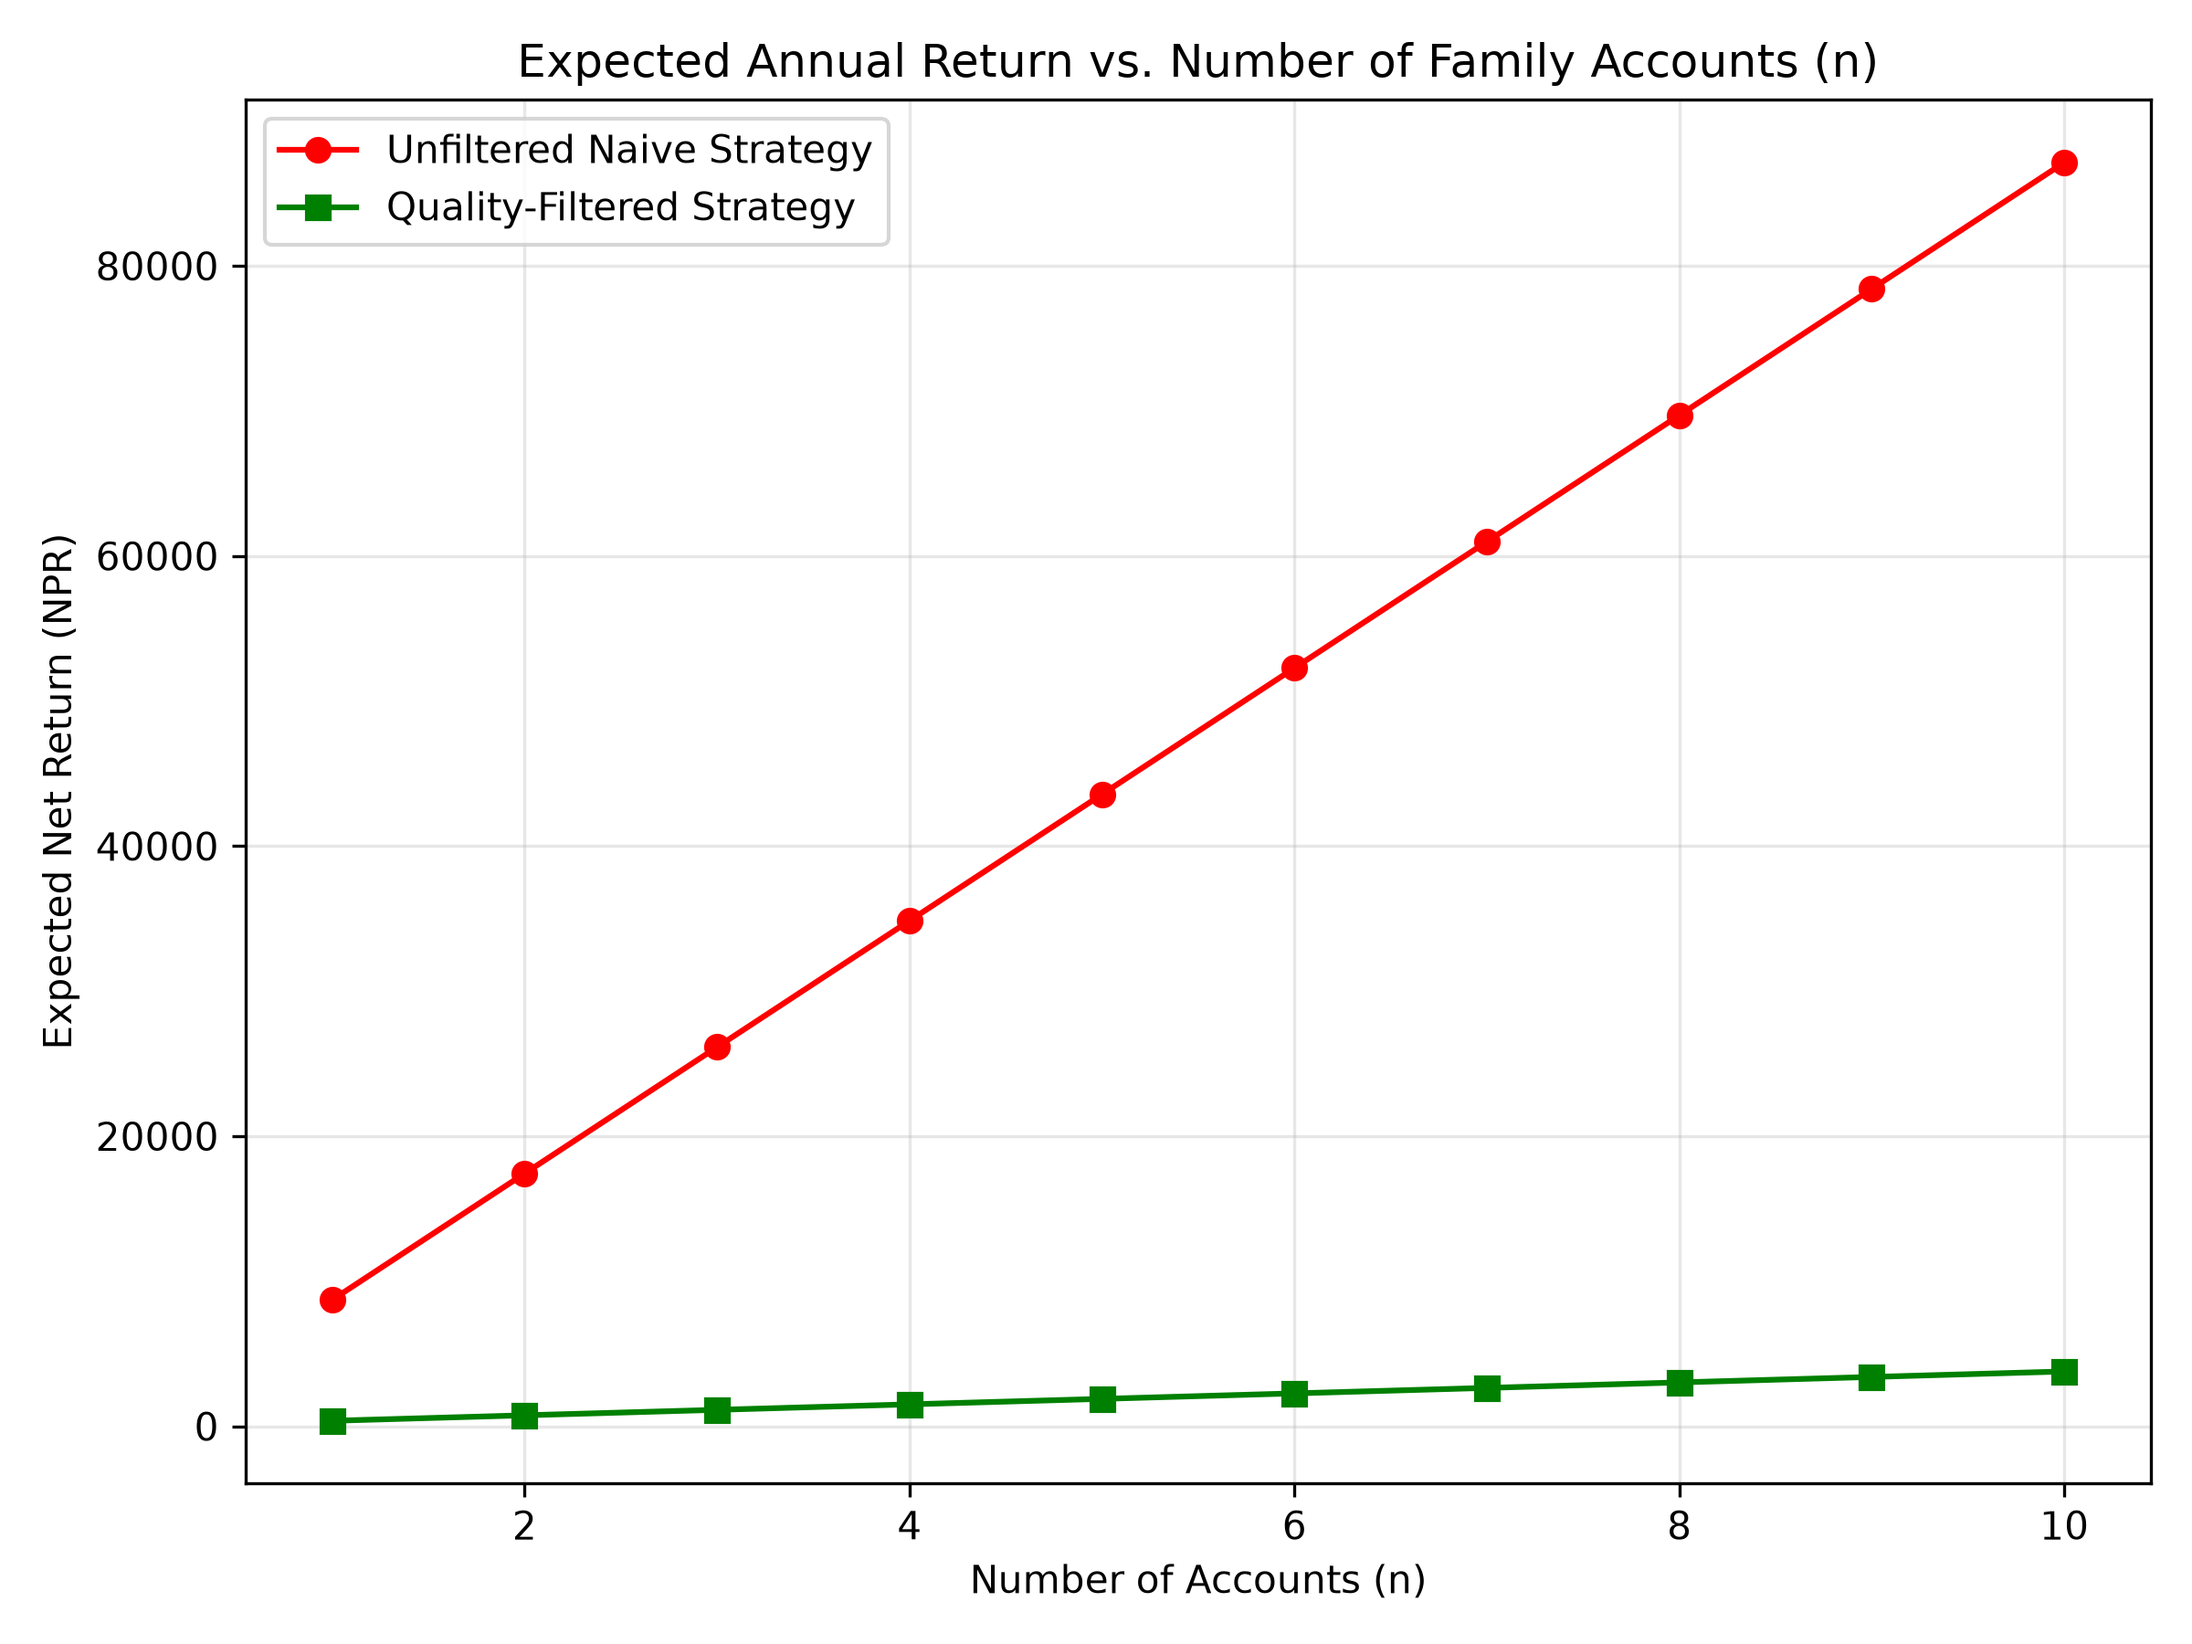
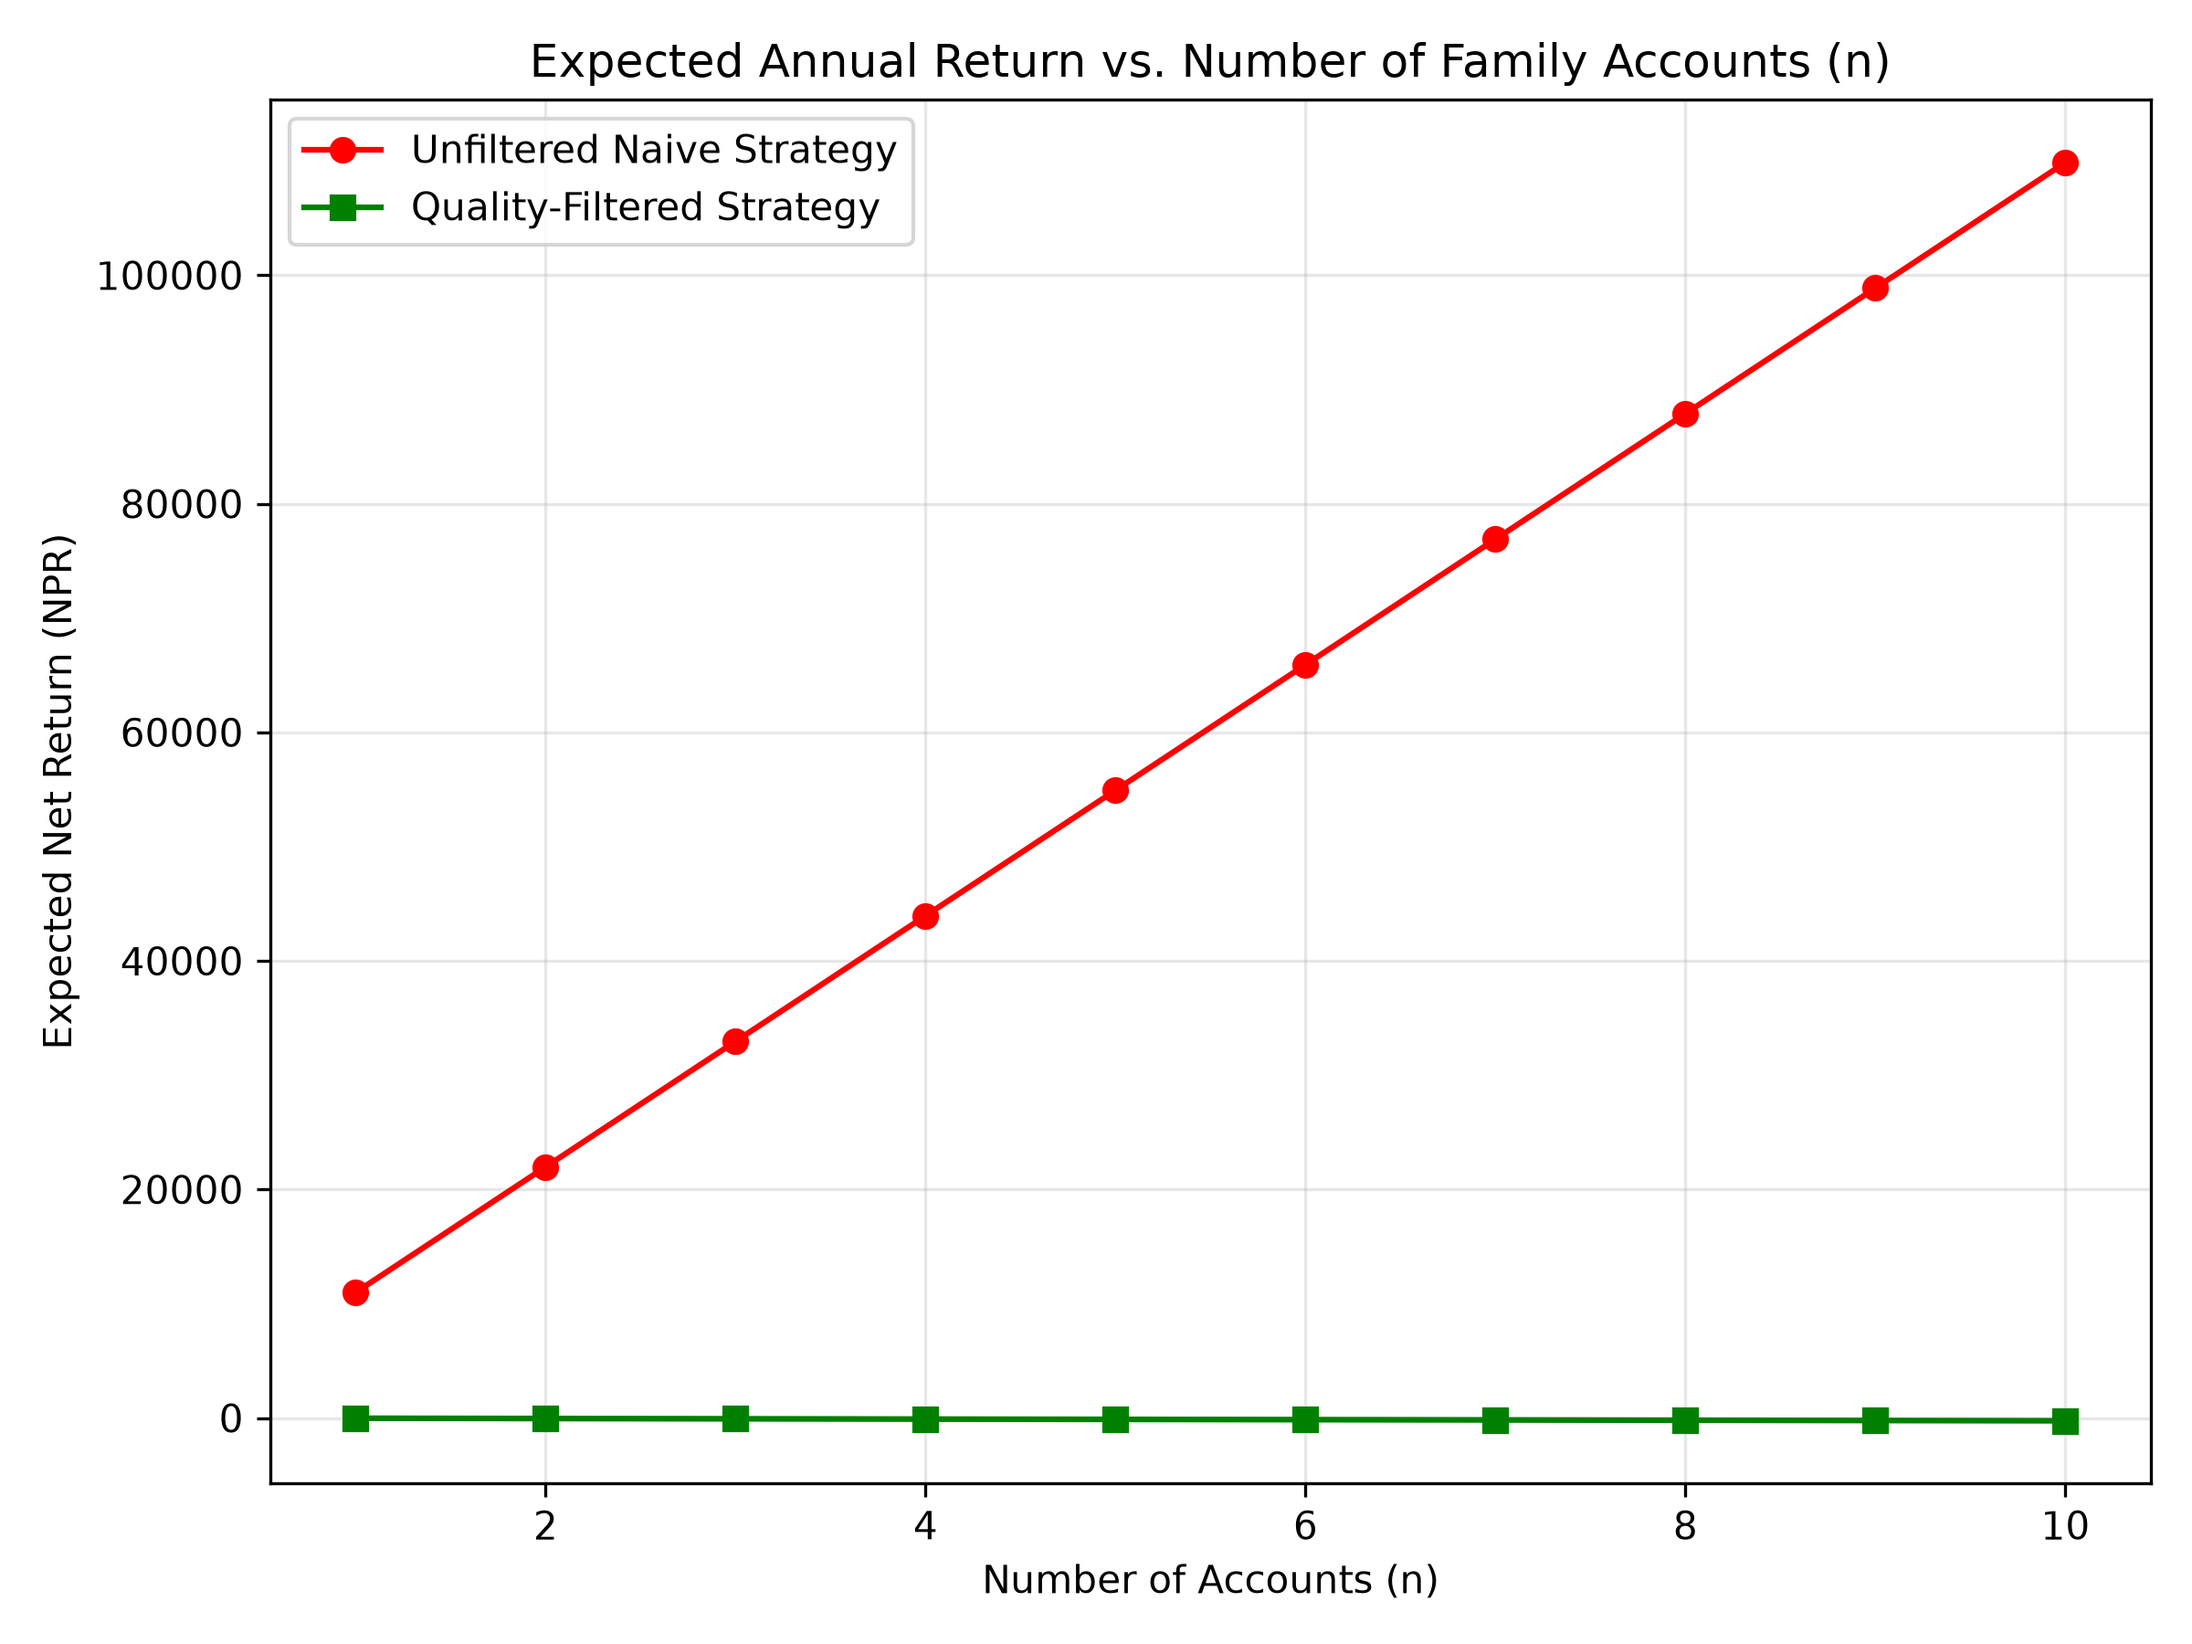
Data updated manually

diff --git a/verify_helper.py b/verify_helper.py
@@ -16,7 +16,7 @@ def generate_verification_links(symbol, company_name):
     
     # 2. Application Counts & Allotment Data (Google Search restricted to ShareSansar)
     query = urllib.parse.quote_plus(f"{company_name} IPO allotment sharesansar")
-    google_url = f"https://www.google.com/search?q={query}"
+    google_url = f"https://www.sharesansar.com/company/{symbol}"
     print(f"\n[2] Application Counts (ShareSansar via Google):")
     print(f"    URL: {google_url}")
     print(f"    Check: Valid Applications, Total Applied Shares")
